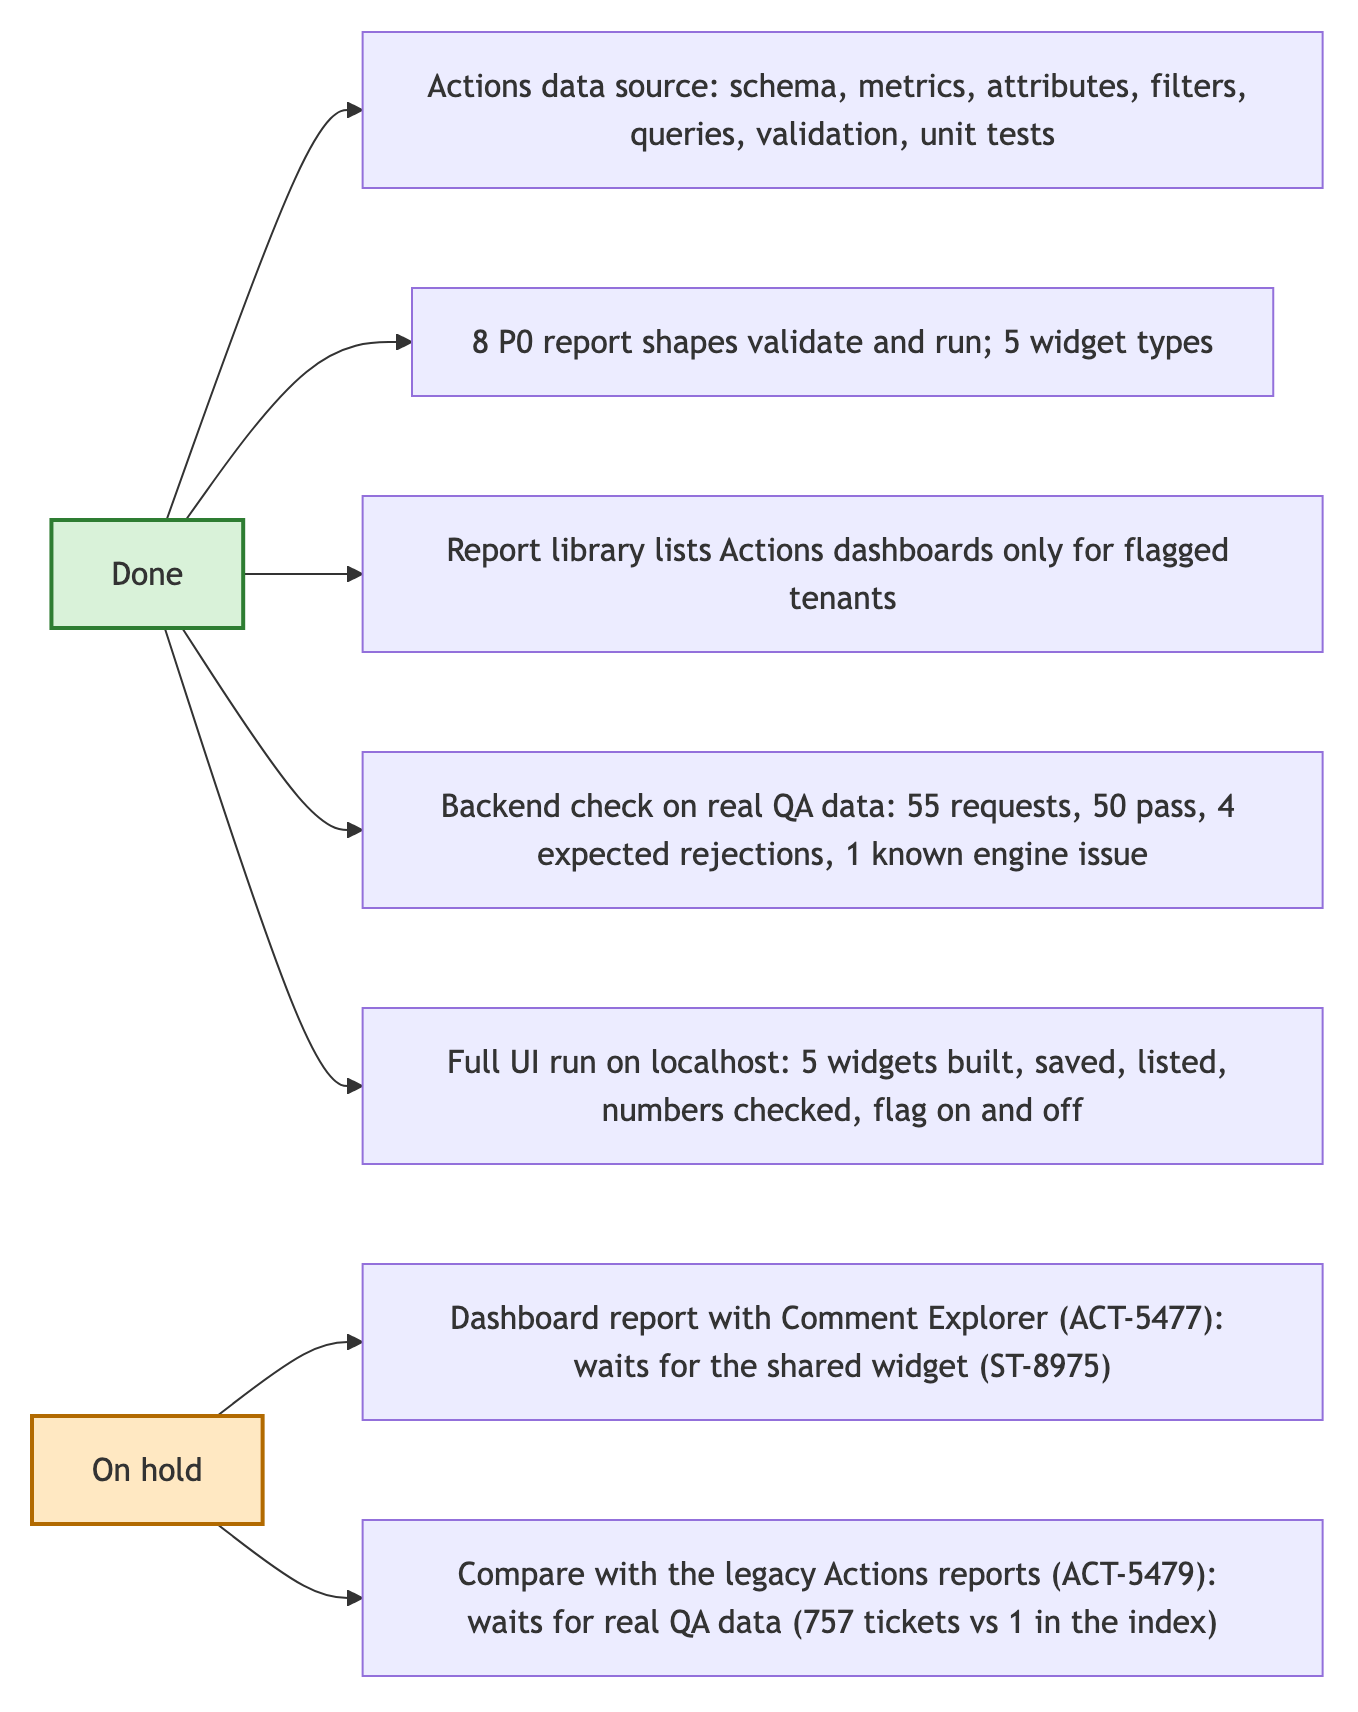
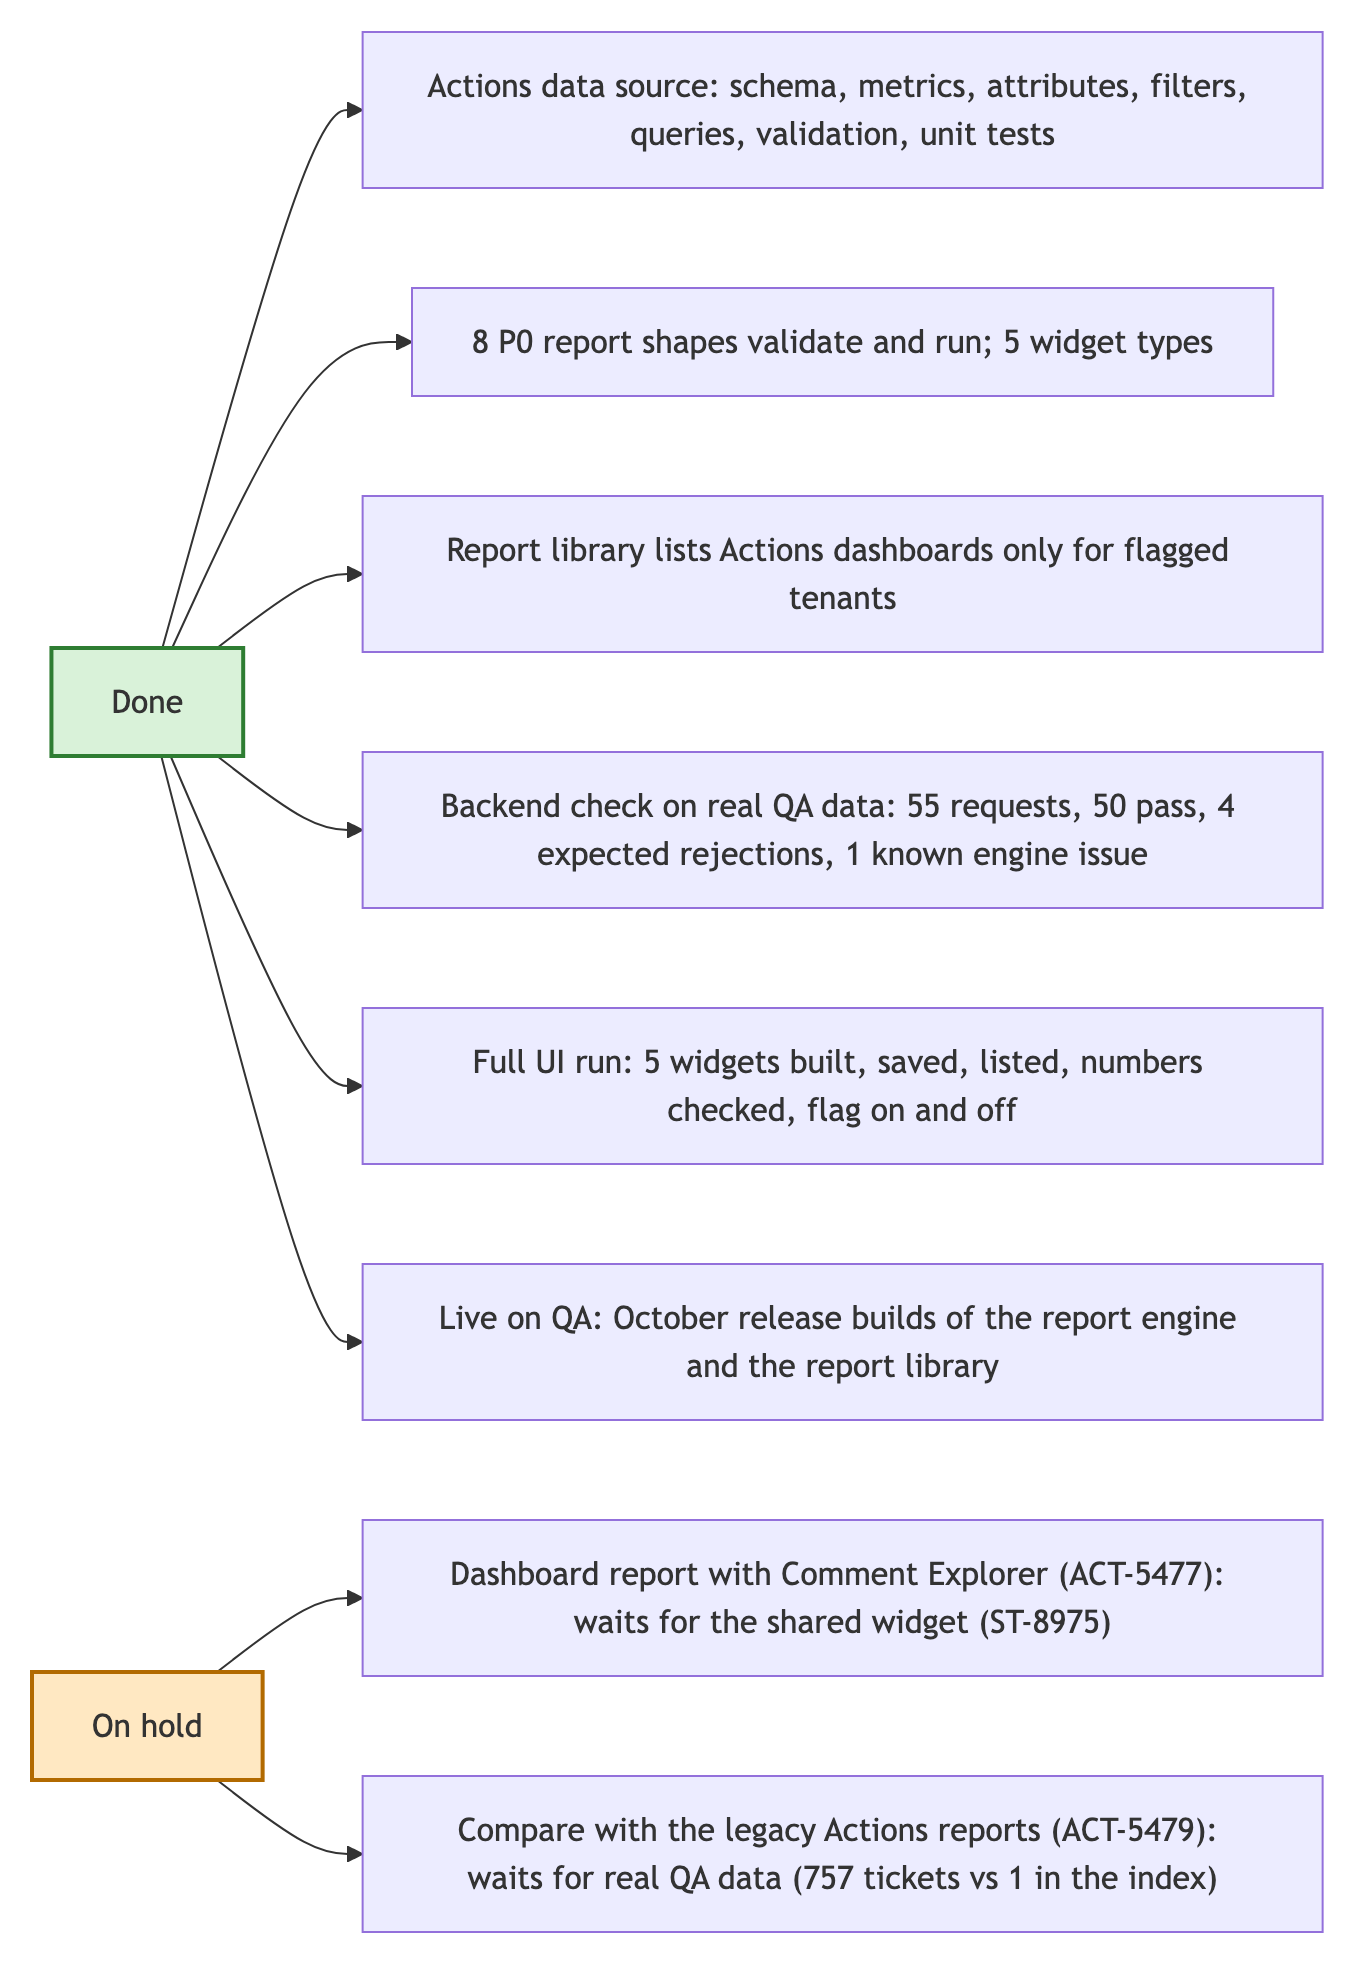
Notes: the run is on QA now, not localhost

diff --git a/nova-actions/ACT-5460-5461-notes.md b/nova-actions/ACT-5460-5461-notes.md
@@ -92,7 +92,7 @@ flowchart LR
 ```
 
 ## 7. What we are covering
-Everything runs on localhost against real QA data: tenant 1286, the saved dashboard "Actions-Demo", date = Calendar Year 2023.
+Everything runs on QA with the October release builds: tenant 1286, the saved dashboard "Actions-Demo", date = Calendar Year 2023.
 
 ```mermaid
 sequenceDiagram
@@ -121,7 +121,8 @@ flowchart LR
   D --> D2["8 P0 report shapes validate and run; 5 widget types"]
   D --> D3["Report library lists Actions dashboards only for flagged tenants"]
   D --> D4["Backend check on real QA data: 55 requests, 50 pass, 4 expected rejections, 1 known engine issue"]
-  D --> D5["Full UI run on localhost: 5 widgets built, saved, listed, numbers checked, flag on and off"]
+  D --> D5["Full UI run: 5 widgets built, saved, listed, numbers checked, flag on and off"]
+  D --> D6["Live on QA: October release builds of the report engine and the report library"]
   H["On hold"] --> H1["Dashboard report with Comment Explorer (ACT-5477): waits for the shared widget (ST-8975)"]
   H --> H2["Compare with the legacy Actions reports (ACT-5479): waits for real QA data (757 tickets vs 1 in the index)"]
   style D fill:#d9f2d9,stroke:#2e7d32,stroke-width:2px
@@ -146,13 +147,12 @@ Suggestions from PMs:
 - 
 
 ## 10. Real vs dummy data
-Real ticket, real index, real report service code. Test-only: the flag and module on QA tenant 1286, and the backend on localhost instead of QA.
+Real ticket, real index, real report service code, all running on QA. Test-only: the flag and module on QA tenant 1286.
 
 ```mermaid
 %%{init: {"flowchart": {"wrappingWidth": 420}}}%%
 flowchart LR
-  B["NOVA UI on localhost"] --> UI["r4e-ui on localhost with the new Actions code"]
-  UI --> RT["r4e-report-two on localhost with the new library code"]
-  UI --> QA["QA services"]
-  UI --> ES[("QA Elasticsearch")]
+  B["NOVA UI on QA"] --> UI["Report engine (r4e-api-internal) on QA"]
+  UI --> RT["Report library (r4e-report-two) on QA"]
+  UI --> ES[("QA Elasticsearch, ticket index")]
 ```

diff --git a/nova-actions/ACT-5460-5461-notes-mobile.md b/nova-actions/ACT-5460-5461-notes-mobile.md
@@ -36,7 +36,7 @@ Tickets flow into the Elasticsearch index through the pipeline; NOVA only reads 
 ![diagram 7](images/d7.png)
 
 ## 7. What we are covering
-Everything runs on localhost against real QA data: tenant 1286, the saved dashboard "Actions-Demo", date = Calendar Year 2023.
+Everything runs on QA with the October release builds: tenant 1286, the saved dashboard "Actions-Demo", date = Calendar Year 2023.
 
 ![diagram 8](images/d8.png)
 
@@ -54,6 +54,6 @@ Suggestions from PMs:
 - 
 
 ## 10. Real vs dummy data
-Real ticket, real index, real report service code. Test-only: the flag and module on QA tenant 1286, and the backend on localhost instead of QA.
+Real ticket, real index, real report service code, all running on QA. Test-only: the flag and module on QA tenant 1286.
 
 ![diagram 11](images/d11.png)
